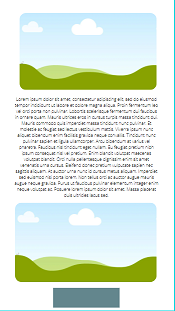
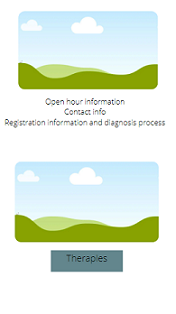
Added all wireframes, finished design part in readme.md

diff --git a/README.md b/README.md
@@ -1,3 +1,5 @@
+<div align="center">
+
 # Website for rehabilitation clinic
 
 Originally it was my 1st milestone project done during study software development/full stack web development in [code institute](https://codeinstitute.net/)
@@ -5,6 +7,9 @@ Originally it was my 1st milestone project done during study software developmen
 While studying, my schedule was very tight and I didn't do everything according to my ideas. Now that I have more free time, I decided to go back to my projects and do them according to my vision.
 
 The project is a website for a physiotherapy clinic.
+
+</div>
+
 
 Table of Contents:
 
@@ -17,6 +22,8 @@ Table of Contents:
     *   [Skeleton](###skeleton)
     *   [Surface](###surface)
 3. [Technologies used on webpage](##technologies)
+
+<div align="center">
 
 ## Demo
  A live website can be found [here]().
@@ -41,6 +48,8 @@ My goal in design is to make an minimalist, modern and user-friendly website.
 ### Scope
 Based on the user stories i describe few points of what information needs to be visible on the webpage:
 
+</div>
+
 1.  The information that this is the rehabilitation clinic website and user can solved issue with pain.
 2.  Address and phone number.
 3.  Open hours.
@@ -49,6 +58,7 @@ Based on the user stories i describe few points of what information needs to be 
 5.  Ailments treated in the clinic.
 6.  Patients recommendations.
 
+<div align="center">
 
 ### Structure
 
@@ -61,17 +71,25 @@ Desktop wireframes:
 
 ![2nd-frame](images/refactored/2ndframe.png)
 
+![3rd-frame](images/refactored/3rdframe.png)
+
 Mobile wireframes:
 
 ![1st-page-mobile-frame](images/refactored/1stmobileframe.png)
-
 ![2nd-mobile-frame](images/refactored/2ndmobileframe.png)
+
+![3rd-mobile-frame](images/refactored/3rdmobileframe.png)
+![4th-mobile-frame](images/refactored/4thmobileframe.png)
 
 ### Surface
 Different green color type was choosen due to colors of clinic logo.
 
 
 ## Technologies
+
+</div>
+
+
 1. HTML
 2. CSS
 3. Bootstrap (4.4.0)
@@ -81,17 +99,10 @@ Different green color type was choosen due to colors of clinic logo.
 7. collapse by Bootstrap
 8. Menu by bootstrap.
 
+<div align="center">
 
 ## Features
 This site is a one page site. Sections are splitted by different full height pictures. Navigation bar is collapsed and is opened in top in row direction on big screens and column direction in small screens. Each section has a background picture or use the picture from home section.
-
-
-
-### Features left to Implement
-In the future i would like to add:
-1. Instead of scrolling from section to section i would like make animation which will show each section one by one.
-2. Add posibilities for users to make online appointment and phone appointment.
-
 
 ## Testing
 
@@ -143,3 +154,4 @@ The Lightbox was suggested by my mentor and applied from [here](https://lokeshdh
 
 The navigation bar, collapsed cards in for whom section and cards in treatment section was taken from [here](https://getbootstrap.com/docs/4.4/getting-started/introduction/)
 
+</div>
